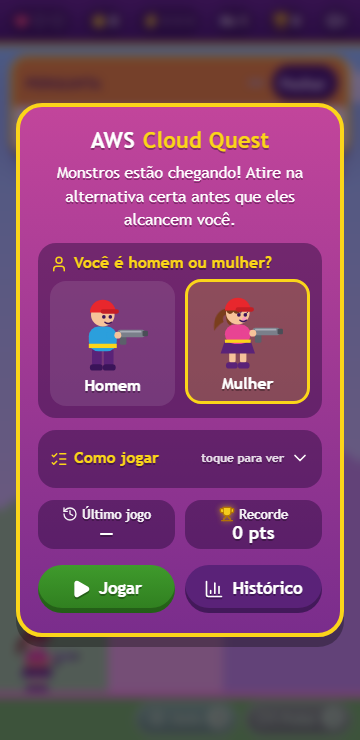
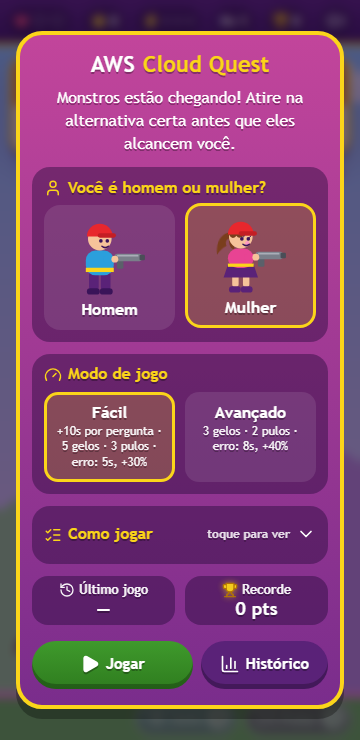
docs: document difficulty modes and the iPhone sound fix; bump to 2.1.0

diff --git a/README.md b/README.md
@@ -43,10 +43,11 @@ The game interface is in Brazilian Portuguese; the code and documentation are in
 
 - **Learn while you play.** When you lose a life (and on Game Over) the game pauses and shows the question, the correct answer and why.
 - **Pick your hero.** Play as a man or a woman; the choice is remembered.
+- **Two difficulty modes.** *Fácil* gives more time and more help; *Avançado* is the full challenge (see the table below).
 - **Four monsters, four attacks.** A dinosaur, a dragon, a snake and an alligator, all drawn as inline SVG, each with its own attack animation.
 - **Reading time scales with the question.** Long, scenario-style questions give the monster a longer walk; every level makes it faster.
-- **Guessing is punished.** A wrong answer locks all options for 8 seconds and makes the monster 40% faster.
-- **Power-ups.** Three **Gelo** (freeze the monster in an ice cube for 15 seconds) and two **Pular** (swap the question without losing a life) per game.
+- **Guessing is punished.** A wrong answer locks all options for a few seconds and makes the monster faster.
+- **Power-ups.** **Gelo** freezes the monster in an ice cube for 15 seconds; **Pular** swaps the question without losing a life.
 - **Fast-hit bonus.** Three first-try answers within 15 seconds earn a life (up to 3), or bonus points when lives are full.
 - **A living world.** Day and night, rain with thunder, birds in the sky, bunnies and squirrels on the ground.
 - **Sound and music.** Synthesized in code (no audio files): effects, rain, birdsong, crickets and suspense music that speeds up as the monster gets closer. Mute with one tap or `M`.
@@ -70,12 +71,20 @@ The game interface is in Brazilian Portuguese; the code and documentation are in
 | Start, continue, play again | Tap the button | `Enter` or `Space` |
 | Close the history | **Fechar** | `Esc` |
 
-1. Choose your character, then a question appears and a monster starts walking from the right.
+1. Choose your character and a difficulty mode, then a question appears and a monster starts walking from the right.
 2. Shoot the correct option. A **hit** kills the monster and scores points.
-3. A **miss** eliminates that option, breaks your streak, locks all options for **8 s** and makes the monster **40% faster**. The question stays open.
+3. A **miss** eliminates that option, breaks your streak, locks all options for a few seconds and makes the monster faster. The question stays open.
 4. If the monster **reaches you**, you lose a life and see the correct answer and explanation.
 5. You start with **1 life** (max. 3). Three fast hits (first try, within 15 s) earn one more.
-6. Use **Gelo** to buy time (3 per game) or **Pular** to get rid of a question (2 per game).
+6. Use **Gelo** to buy time or **Pular** to get rid of a question.
+
+| | Fácil | Avançado |
+|---|---|---|
+| Time before the monster arrives | +10 s per question | normal |
+| Gelo (freeze 15 s) | 5 per game | 3 per game |
+| Pular (skip) | 3 per game | 2 per game |
+| Lockout after a miss | 5 s | 8 s |
+| Monster speed-up per miss | +30% | +40% |
 
 **Score per hit:** `10 + min(streak, 10) × 2 + 10 if fast`. You level up every 3 hits.
 
@@ -125,7 +134,7 @@ To bulk-import from JSON, use `node scripts/import-questions.mjs file.json --pre
 
 ## Configuration
 
-All gameplay rules live in one object in [`js/config.js`](js/config.js).
+All gameplay rules live in one object in [`js/config.js`](js/config.js). The values below are the base game (*Avançado*). `MODES` lists each difficulty mode's overrides; anything a mode does not list keeps the base value, and `DEFAULT_MODE` is the mode used until the player picks one.
 
 | Key | Default | Meaning |
 |---|---|---|
@@ -147,6 +156,8 @@ All gameplay rules live in one object in [`js/config.js`](js/config.js).
 | `POWER_FREEZE` | `3` | **Gelo** uses per game |
 | `FREEZE_SECONDS` | `15` | How long **Gelo** keeps the monster frozen |
 | `POWER_SKIP` | `2` | **Pular** uses per game |
+| `DEFAULT_MODE` | `"advanced"` | Mode used until the player picks one |
+| `MODES.easy` | see the table in *How to play* | *Fácil*: `THINK_SECONDS` 30, `POWER_FREEZE` 5, `POWER_SKIP` 3, `WRONG_LOCK_SECONDS` 5, `WRONG_SPEEDUP` 0.3 |
 | `POINTS_BASE` | `10` | Points per hit |
 | `POINTS_PER_STREAK` | `2` | Extra points per hit already in the streak |
 | `STREAK_CAP` | `10` | Streak value at which the streak bonus stops growing |
@@ -217,7 +228,7 @@ npm run smoke      # add -- --shots shots/ to save screenshots
 npm run assets     # re-render icons and the link preview image
 ```
 
-Every push runs [CI](.github/workflows/ci.yml): syntax check, bank validation, unit tests and the smoke test at 360 px and 1280 px. Pushes to `main` are deployed to GitHub Pages by [pages.yml](.github/workflows/pages.yml), which re-runs the checks first and publishes only `index.html`, `css/`, `js/` and `data/`.
+Every push runs [CI](.github/workflows/ci.yml): syntax check, bank validation, unit tests and the smoke test at 360 px and 1280 px, in both Chromium and WebKit (the Safari / iPhone engine). Pushes to `main` are deployed to GitHub Pages by [pages.yml](.github/workflows/pages.yml), which re-runs the checks first and publishes only `index.html`, `css/`, `js/` and `data/`.
 
 Commits follow [Conventional Commits](https://www.conventionalcommits.org/). See [CONTRIBUTING.md](CONTRIBUTING.md). Dependabot keeps the GitHub Actions and the dev dependency up to date, and security reports go through [SECURITY.md](SECURITY.md).
 
@@ -233,7 +244,8 @@ The page ships what search engines and link previews look for: a descriptive tit
 - **One set of validation rules.** `js/questions.js` has no DOM code, so the game, the CLI validator and the tests all run the same `normalize()`.
 - **Deterministic answers.** The game never infers, generates or fixes an answer; there are no AI or external API calls.
 - **Bank text is rendered with `textContent`**, never `innerHTML`.
-- **Sound is synthesized with the Web Audio API**, not loaded from files, so the game stays tiny and works offline. Browsers only allow audio after a tap, so it starts on the first interaction.
+- **Sound is synthesized with the Web Audio API**, not loaded from files, so the game stays tiny and works offline. Browsers only allow audio after a tap, so it starts on the first interaction. On iPhone the game requests the media playback audio session, so sound also plays with the ring/silent switch on; the in-game mute button controls it.
+- **Difficulty modes are data, not code.** A mode is a set of `CONFIG` overrides; the game, the UI and the "Como jogar" text all read the effective configuration.
 - **Icons are [Lucide](https://lucide.dev)**, embedded as inline SVG (ISC license, see [THIRD_PARTY_NOTICES.md](THIRD_PARTY_NOTICES.md)) instead of loaded from a CDN.
 
 The full log, with alternatives considered, is in [docs/DECISIONS.md](docs/DECISIONS.md).

diff --git a/docs/ARCHITECTURE.md b/docs/ARCHITECTURE.md
@@ -80,6 +80,10 @@ A shot is ignored when the phase is not `play`, when a bullet is already in flig
 4. Only in `play`: `elapsed += dt`. If the monster is frozen, `frozenLeft` counts down and progress stands still; otherwise `progress += dt × speed / travel`. The lockout and panel timers count down, the danger vignette turns on when `progress > DANGER_AT`, and the music intensity follows the progress. At `progress ≥ 1` the attack starts.
 5. The hero and monster are positioned with `transform` only.
 
+## Difficulty modes
+
+`CONFIG.MODES` maps each mode to a set of overrides (`easy` changes `THINK_SECONDS`, `POWER_FREEZE`, `POWER_SKIP`, `WRONG_LOCK_SECONDS` and `WRONG_SPEEDUP`; `advanced` changes nothing). `rules.configFor(CONFIG, mode)` returns the frozen effective configuration. `game.js` keeps that object as its `config` and swaps it when the player picks another mode. Everything else (travel time, lockout, power-up counts, the "Como jogar" text and the mode descriptions) reads from it. The mode is saved in `localStorage` and recorded in the history and in each report.
+
 ## Monster travel time and speed
 
 ```
@@ -89,7 +93,7 @@ factor = max(MIN_FACTOR, 1 − LEVEL_SPEEDUP × (level − 1))
 travel = base × factor                              (seconds at speed 1)
 ```
 
-With the defaults, a short question (about 150 characters including the options) takes `20 + 150/25 = 26 s` at level 1. The 600-character storage scenario in the bank has five long options (1,245 characters in total) and takes `20 + 1245/25 ≈ 70 s`. From level 10 on, the factor bottoms out at `0.55`.
+With the defaults (*Avançado*), a short question (about 150 characters including the options) takes `20 + 150/25 = 26 s` at level 1. The 600-character storage scenario in the bank has five long options (1,245 characters in total) and takes `20 + 1245/25 ≈ 70 s`. From level 10 on, the factor bottoms out at `0.55`. *Fácil* raises `THINK_SECONDS` to 30, giving 10 s more per question at level 1.
 
 Each question starts at `speed = 1`. Every miss adds `WRONG_SPEEDUP` (0.4), up to `MAX_SPEED` (2.5), for the rest of that question. The time left shown in the timer chip is `(1 − progress) × travel / speed`.
 
@@ -122,7 +126,7 @@ Stats are updated once per showing. The first miss, or the monster's arrival, re
 
 `ambient.js` runs a day/night cycle of `AMBIENT_CYCLE_SECONDS` and sets `--night` (0–1) on the world, which CSS uses for the night sky, stars, sun, moon and a slightly darker field. Rain starts at random intervals and brings thunder flashes. By day without rain, small flocks of birds cross the sky and bunnies or squirrels hop along the ground from left to right, away from the hero. At night, crickets chirp.
 
-`sound.js` synthesizes everything with the Web Audio API. Effects play for shots, hits, misses, the lockout ending, lives, level-ups, power-ups, each monster's attack, life lost, Game Over and new records. The ambience drives the rain loop, birdsong, crickets and thunder. The suspense music is an A-minor bass pulse over a drone, scheduled ahead of time. Its tempo, brightness and a heartbeat follow the monster's progress, and it rests while the monster is frozen. Audio starts on the first tap or key press, as browsers require, and the mute state is saved.
+`sound.js` synthesizes everything with the Web Audio API. Effects play for shots, hits, misses, the lockout ending, lives, level-ups, power-ups, each monster's attack, life lost, Game Over and new records. The ambience drives the rain loop, birdsong, crickets and thunder. The suspense music is an A-minor bass pulse over a drone, scheduled ahead of time. Its tempo, brightness and a heartbeat follow the monster's progress, and it rests while the monster is frozen. Audio starts on the first tap or key press, as browsers require, and the mute state is saved. `main.js` listens to `pointerdown`, `pointerup`, `touchend`, `click` and `keydown` until the audio context is actually running, because on touch screens iOS only counts the end of a tap as a user gesture. iOS mutes Web Audio when the ring/silent switch is on. To avoid that, `sound.js` sets `navigator.audioSession.type = "playback"` (Safari 17+). On older iOS it plays a silent looping WAV through an `<audio>` element instead, which keeps the media playback session active. The mute button pauses that loop.
 
 ## Reports and sharing
 
@@ -144,14 +148,15 @@ The Game Over card exports the game that just ended. The history screen exports 
 | `awsCloudQuestStats` | `{ [questionId]: { w, r } }` | every recorded hit or miss |
 | `awsCloudQuestHero` | `"male"` or `"female"` | when the player picks a character |
 | `awsCloudQuestMuted` | boolean | when the sound is toggled |
+| `awsCloudQuestMode` | `"easy"` or `"advanced"` | when the player picks a difficulty mode |
 
 Every access is wrapped in `try/catch`. If storage is blocked, the game plays normally and simply doesn't remember anything. **Limpar** on the history screen asks for confirmation inside the card, then removes the history, the saved reports and the best score. Review stats are kept, so the deck keeps prioritizing your weak questions.
 
 ## Testing
 
 - `tests/*.test.js` (`node:test`): normalization, deck building (adjacency, review copies, deck rollover), travel time, scoring, fast-hit rule, life cap, miss speed-up, storage fallbacks, reports and Markdown export, and the repository bank itself.
-- `scripts/smoke.mjs` (Playwright, optional): loads the page at 360 px and 1280 px with a fake clock. It covers:
-  - the character choice and the "Como jogar" accordion;
+- `scripts/smoke.mjs` (Playwright, optional): loads the page at 360 px and 1280 px with a fake clock, in Chromium or WebKit (`--browser`). Mobile plays *Fácil* and desktop plays *Avançado*. It covers:
+  - the character and mode choice and the "Como jogar" accordion;
   - a miss with its lockout, then hits, the panel auto-close and a life gain;
   - a life loss and Game Over with the player's numbers;
   - history with per-game export and the in-card clear confirmation;

diff --git a/CHANGELOG.md b/CHANGELOG.md
@@ -6,7 +6,22 @@ The format is based on [Keep a Changelog](https://keepachangelog.com/en/1.1.0/),
 
 ## [Unreleased]
 
-## [2.0.0] - 2026-10-22
+## [2.1.0] - 2026-10-22
+
+### Added
+
+- Difficulty modes, chosen on the start screen and remembered. **Fácil**: +10 s per question, 5 Gelo, 3 Pular, 5 s lockout and +30% speed after a miss. **Avançado** is the original game.
+- The mode is shown on the Game Over card, in the history and in the exported reports.
+- One new practice question (Amazon Personalize).
+- The smoke test also runs in WebKit, the Safari / iPhone engine, locally (`--browser webkit`) and in CI.
+
+### Changed
+
+- Opening "Como jogar" hides the character and mode pickers, so the rules get the space.
+
+### Fixed
+
+- No sound on some iPhones: audio now unlocks on any tap (iOS only counts the end of a touch as a gesture), and the game requests the media playback audio session so sound plays with the ring/silent switch on. The in-game mute button still silences everything.
 
 First public release of the game. Earlier prototypes were never published in this repository.
 
@@ -39,5 +54,6 @@ First public release of the game. Earlier prototypes were never published in thi
 - Keyboard play, `aria-live` feedback, focus management in dialogs, AA contrast and `prefers-reduced-motion` support.
 - Documentation: README, architecture, decisions, question guide and contributing guide.
 
-[Unreleased]: https://github.com/iWIPER/awscloudquest/compare/v2.0.0...HEAD
+[Unreleased]: https://github.com/iWIPER/awscloudquest/compare/v2.1.0...HEAD
+[2.1.0]: https://github.com/iWIPER/awscloudquest/compare/v2.0.0...v2.1.0
 [2.0.0]: https://github.com/iWIPER/awscloudquest/releases/tag/v2.0.0

diff --git a/docs/DECISIONS.md b/docs/DECISIONS.md
@@ -102,3 +102,16 @@ A combined report of every game would grow without bound and mix separate study 
 ## 24. A gorilla, and critters that run away from the hero
 
 The fifth monster, a gorilla, punches the hero on the head; the hero ends flattened with dizzy stars. The decorative bunnies and squirrels always run left to right, away from the hero, so they never read as a threat.
+
+## 25. Difficulty modes as configuration overrides
+
+*Fácil* and *Avançado* differ only in numbers. Each mode is therefore a list of `CONFIG` overrides, and `rules.configFor()` merges them into one frozen object that the whole game reads. Adding a mode, or tuning one, means editing `CONFIG.MODES`, with no code changes. *Avançado* stays the default because it is the game as originally designed. Players who want help pick *Fácil* once, and the choice is remembered.
+
+## 26. iPhone sound with the silent switch on
+
+An iPhone 14 played no sound while an iPhone 17 Pro Max did. There were two causes:
+
+- iOS treats Web Audio as ambient sound, which the ring/silent switch mutes. Newer iPhones replace the switch with the Action button, so they are rarely in silent mode.
+- On touch screens iOS only accepts the end of a tap as the gesture that unlocks audio, so unlocking on `pointerdown` alone could fail on some iOS versions.
+
+The game now unlocks on every gesture type until audio runs. It also asks for the media playback audio session, so sound plays with the switch on, like a video player. The in-game mute button is the player's control.
